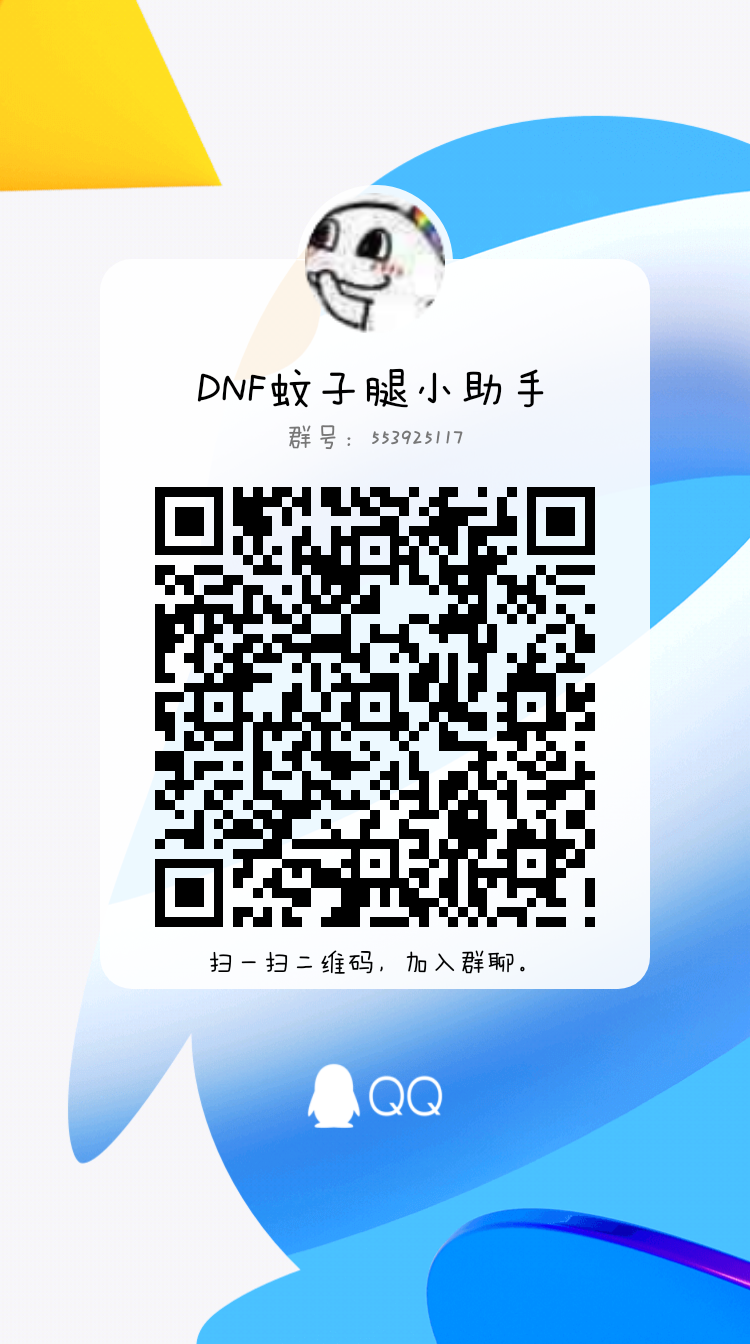
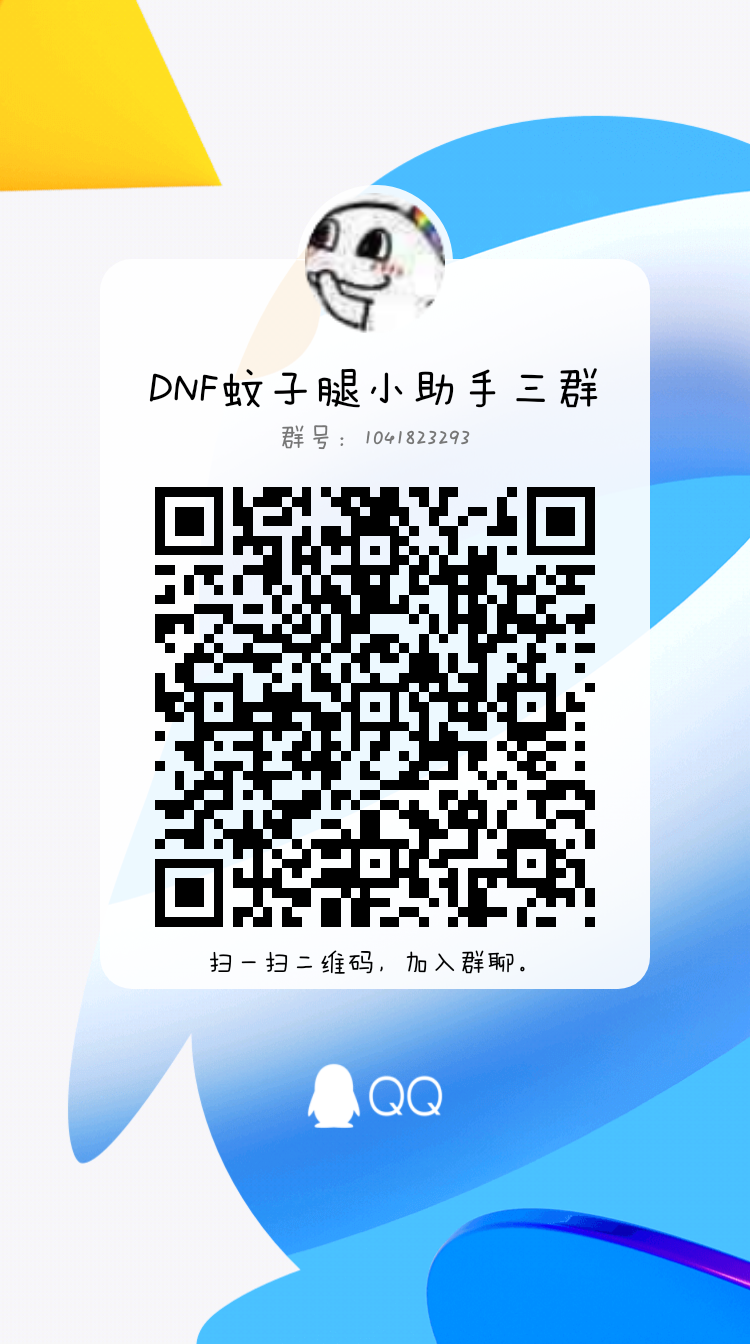
更新默认QQ群为三群

Changed region(s): [[0.184, 0.25, 0.7973, 0.6875], [0.736, 0.625, 0.7973, 0.6875]]

diff --git a/config_ui.py b/config_ui.py
@@ -341,8 +341,8 @@ class ConfigUi(QFrame):
         report_click_event("clear_login_status")
 
     def add_group(self, checked=False):
-        # note: 如果群 553925117 满了，到 https://qun.qq.com/join.html 获取新群的加群链接 @2021-02-13 01:41:03 By Chen Ji
-        webbrowser.open("https://qm.qq.com/cgi-bin/qm/qr?k=sPZykRpi-_SU6C7B-eIUQH-1_hCmbBHB&jump_from=webapi")
+        # note: 如果群 1041823293 满了，到 https://qun.qq.com/join.html 获取新群的加群链接 @2021-02-13 01:41:03 By Chen Ji
+        webbrowser.open("https://qm.qq.com/cgi-bin/qm/qr?k=xFas3y3oQurXc2y2zvblMUCDwAJMmWJS&jump_from=webapi")
         self.popen("DNF蚊子腿小助手交流群群二维码.jpg")
         report_click_event("add_group")
 

diff --git a/config.py b/config.py
@@ -642,7 +642,7 @@ class CommonConfig(ConfigInterface):
         # 网盘地址
         self.netdisk_link = "https://fzls.lanzoui.com/s/djc-helper"
         # QQ群
-        self.qq_group = 553925117
+        self.qq_group = 1041823293
         # 是否启用自动更新功能
         self.auto_update_on_start = True
         # 是否仅允许单个运行实例
